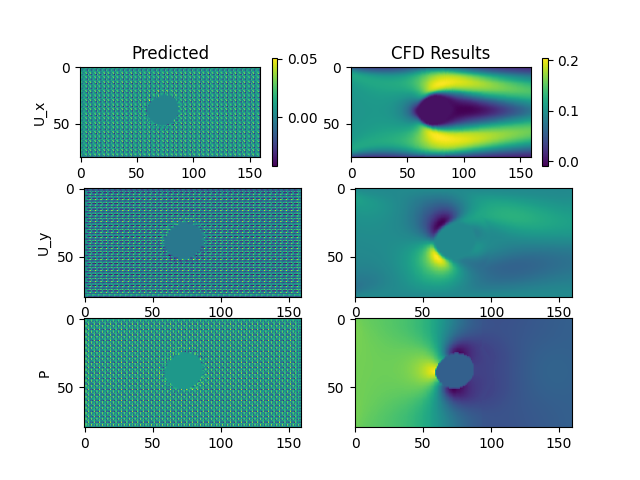
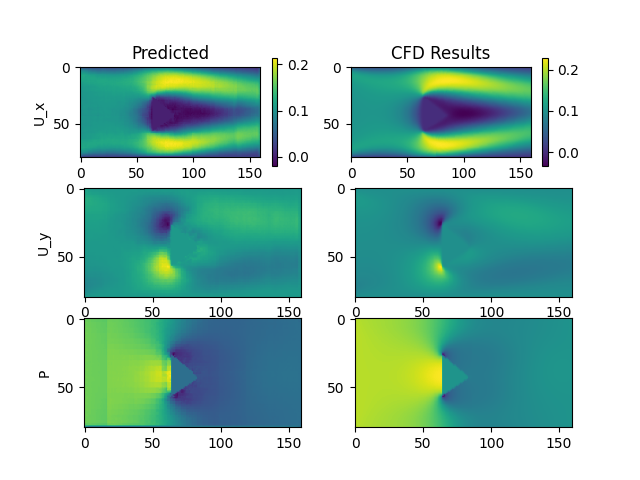
pretty good results

diff --git a/cnn_encoder_model.py b/cnn_encoder_model.py
@@ -1,21 +1,20 @@
 import numpy as np
 import tensorflow as tf
 from tensorflow.keras.layers import Conv2D, Dense, Conv2DTranspose
-# import tensorflow_probability as tfp
 
 class CNNAutoEncoder(tf.keras.Model):
 
     def __init__(self):
         super(CNNAutoEncoder, self).__init__()
 
-        self.adam_optimizer = tf.keras.optimizers.Adam(learning_rate=0.005)  #.01 originally, improved w/ .005
-        self.batch_size = 32
-        self.epochs = 25  #originally 25 dec5, increasing to 35 doesn't help at all
+        self.adam_optimizer = tf.keras.optimizers.Adam(learning_rate=0.004)  #.01 originally, improved w/ .004
+        self.batch_size = 32 #was 32 originally
+        self.epochs = 40  #originally 25 dec5
 
-        self.encoder_1 = Conv2D(128, 4, 4, 'same',activation='relu')
+        self.encoder_1 = Conv2D(128, 4, 4, 'same',activation='relu') #from 4 to 8 made worse
 
         self.encoder_2 = tf.keras.Sequential()
-        self.encoder_2.add(Conv2D(256, 4, 5, 'same',activation='relu'))
+        self.encoder_2.add(Conv2D(256, 4, 5, 'same',activation='relu')) #256 to 128..33.12%, 256 to 512 gives 37.836% error
         self.encoder_2.add(Conv2D(512, 4, 2, 'same',activation='relu'))
 
         self.dense = tf.keras.layers.Dense(1024, activation = 'relu')
@@ -29,7 +28,6 @@ class CNNAutoEncoder(tf.keras.Model):
         self.decoder_ux_2.add(Conv2DTranspose(1, 4, 2, 'same'))
 
 
-
         self.decoder_uy_1 = tf.keras.Sequential()
         self.decoder_uy_1.add(Conv2DTranspose(256, 4, 2, 'same',activation='relu'))
         self.decoder_uy_1.add(Conv2DTranspose(128, 4, 5, 'same',activation='relu'))
@@ -38,10 +36,8 @@ class CNNAutoEncoder(tf.keras.Model):
         self.decoder_uy_2.add(Conv2DTranspose(64, 4, 2, 'same',activation='relu'))
         self.decoder_uy_2.add(Conv2DTranspose(1, 4, 2, 'same'))
 
-
-
         self.decoder_p_1 = tf.keras.Sequential()
-        self.decoder_p_1.add(Conv2DTranspose(256, 4, 2, 'same',activation='relu'))
+        self.decoder_p_1.add(Conv2DTranspose(256, 4, 2, 'same',activation='relu')) #256 to 512
         self.decoder_p_1.add(Conv2DTranspose(128, 4, 5, 'same',activation='relu'))
 
         self.decoder_p_2 = tf.keras.Sequential()
@@ -84,6 +80,27 @@ class CNNAutoEncoder(tf.keras.Model):
         a = tf.reduce_sum(tf.square(prediction - true) * mask,axis=[1,2]) / tf.reduce_sum(mask)
         return tf.reduce_mean(a)
 
+    def loss_functionP(self,prediction,true,mask):
+        try:
+            prediction = tf.squeeze(prediction,axis=3)
+        except:
+            pass
+        try:
+            mask = tf.cast(tf.squeeze(mask,axis=3),tf.float32)
+        except:
+            pass
+        # rms_loss = tf.sqrt(tf.cast(tf.reduce_sum(tf.square((prediction - true) * tf.cast(mask,tf.float32)),axis=[1,2]),tf.float32) / tf.cast(tf.reduce_sum(mask,axis=[1,2]),tf.float32))
+        # avgd = tf.reduce_mean(rms_loss)
+        # RMS = tf.keras.metrics.RootMeanSquaredError()
+        # RMS.update_state(true, prediction, sample_weight = mask)
+        # print(tf.convert_to_tensor(RMS.result().numpy()))
+        # return tf.convert_to_tensor(RMS.result().numpy())
+        # mse = tf.keras.losses.MeanSquaredError(reduction = ttf.keras.losses.Reduction.NONE)
+        # print(mse(true,prediction).shape)
+
+        a = tf.reduce_sum(tf.math.abs(prediction - true) * mask, axis=[1, 2]) / tf.reduce_sum(mask) #
+        return tf.reduce_mean(a)
+
     def prediction_error(self,prediction,true,mask):
         try:
             prediction = tf.squeeze(prediction,axis=3)
@@ -105,9 +122,34 @@ class CNNAutoEncoder(tf.keras.Model):
         maskedTruth = true[maskBoolean]
         shortenedRawErrors = tf.math.abs(maskedPrediction - maskedTruth)
         shortenedPercErrors = tf.math.abs(shortenedRawErrors/maskedTruth) * 100
-        medianPercError = np.median(shortenedPercErrors)
+        n = len(shortenedPercErrors)
+        orderedPercErrors = tf.sort(shortenedPercErrors)
+        medianPercError = orderedPercErrors[int(n/2)]  # median=n_num[n//2]
+        # medianPercError = np.median(shortenedPercErrors)
 
         avgValueMagnitude = tf.reduce_sum(tf.math.abs(true)*mask) / numDataPoints
         normalizedAvgError = avgRawError/avgValueMagnitude * 100 #kind of like a percentage error
 
         return avgRawError, medianPercError, normalizedAvgError
+
+    def median_perc_error(self,prediction,true,mask):
+        try:
+            prediction = tf.squeeze(prediction,axis=3)
+        except:
+            pass
+        try:
+            mask = tf.cast(tf.squeeze(mask,axis=3),tf.float32)
+        except:
+            pass
+        # after removing 'masked' values, can calculate medians:
+        maskBoolean = tf.cast(mask, tf.bool)
+        maskedPrediction = prediction[maskBoolean]
+        maskedTruth = true[maskBoolean]
+        shortenedRawErrors = tf.math.abs(maskedPrediction - maskedTruth)
+        epsilon = 1e-30
+        shortenedPercErrors = tf.math.abs(shortenedRawErrors/(maskedTruth+epsilon)) * 100
+        n = len(shortenedPercErrors)
+        orderedPercErrors = tf.sort(shortenedPercErrors)
+        medianPercError = orderedPercErrors[int(n/2)]  # median=n_num[n//2]
+        # medianPercError = np.median(shortenedPercErrors)
+        return medianPercError

diff --git a/run.py b/run.py
@@ -4,6 +4,7 @@ from preprocess import import_data, get_next_batch
 from cnn_encoder_model import CNNAutoEncoder
 from sklearn.model_selection import train_test_split
 import matplotlib.pyplot as plt
+import time
 
 def train(model, geometries, results):
 	completed = 0
@@ -17,6 +18,7 @@ def train(model, geometries, results):
 		our_size = model.batch_size
 
 		if len(geometries) - completed < model.batch_size:
+			break  # skipping last batch if woudln't be complete, makes averages/calculations easier
 			our_size = len(geometries) - completed
 
 		geom_batch, results_batch = get_next_batch(geometries, results, completed, our_size)
@@ -27,7 +29,9 @@ def train(model, geometries, results):
 			ux, uy, p = model.call(geom_batch)
 			ux_loss = model.loss_function(ux, results_batch[:,0,:,:],geom_batch) #geometries serves as the mask here
 			uy_loss = model.loss_function(uy, results_batch[:,1,:,:],geom_batch)
-			p_loss = model.loss_function(p, results_batch[:,2,:,:],geom_batch)
+			p_loss = model.loss_functionP(p, results_batch[:,2,:,:],geom_batch)
+
+
 
 		gradients = tape.gradient([ux_loss, uy_loss, p_loss], model.trainable_variables)
 		model.adam_optimizer.apply_gradients(zip(gradients, model.trainable_variables))
@@ -67,8 +71,12 @@ def test(model, geometries, results):
 		geom_batch, results_batch = get_next_batch(geometries, results, completed, our_size)
 
 		completed += our_size
-
+		# tic = time.perf_counter()
 		ux, uy, p = model.call(geom_batch)
+		# toc = time.perf_counter()
+		# batchCalculationTime = toc - tic
+		# print(f"Time to calculate for 1 batch {toc - tic:0.4f} seconds")
+
 
 		ux_loss = model.loss_function(ux, results_batch[:,0,:,:],geom_batch) #geometries serves as the mask here
 		uy_loss = model.loss_function(uy, results_batch[:,1,:,:],geom_batch)
@@ -103,6 +111,7 @@ def test(model, geometries, results):
 	totalMedianPercError = (avg_ux_perc_err+avg_uy_perc_err+avg_p_perc_err)/3
 
 	print(' ')
+	# print('batchCalculationTime', batchCalculationTime)
 	print('Testing Results:')
 	print('Ux loss: ', tf.reduce_mean(ux_loss_list))
 	print('Uy loss: ', tf.reduce_mean(uy_loss_list))
